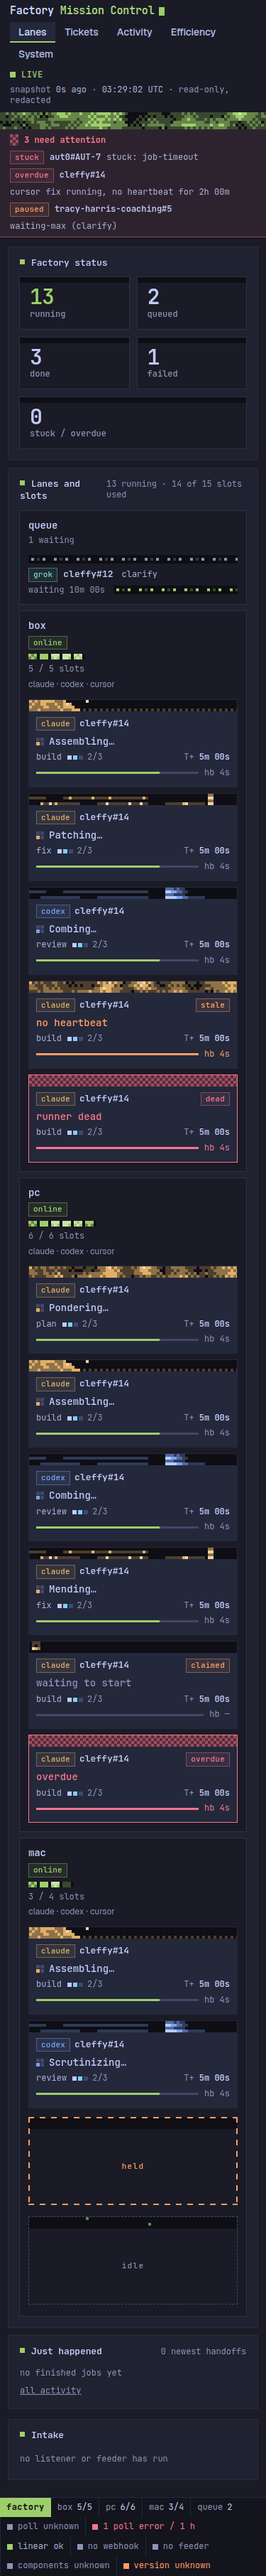
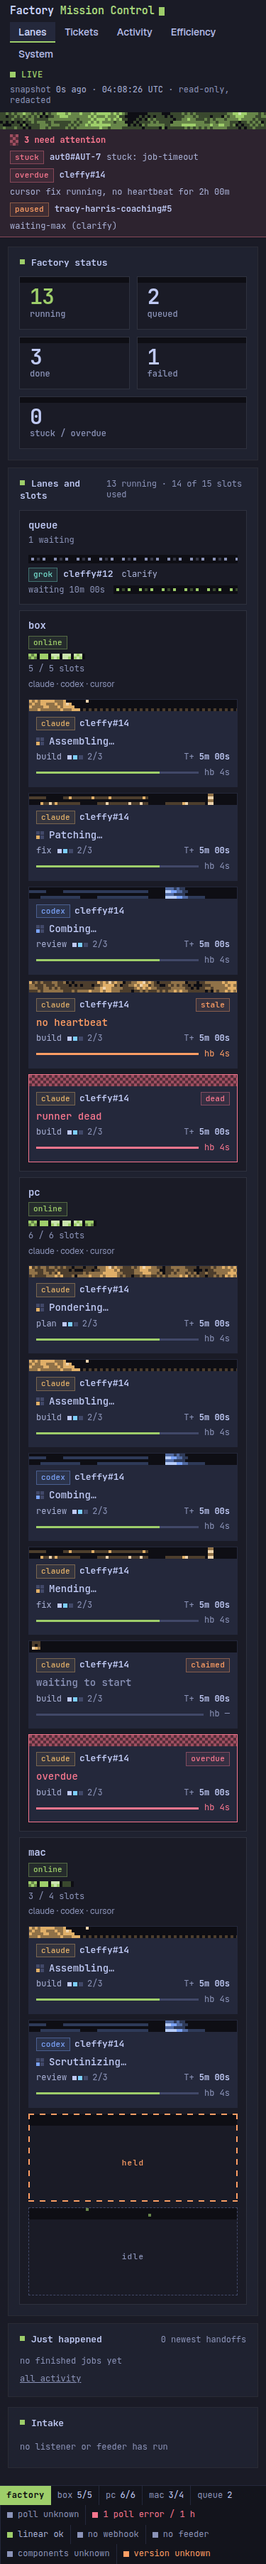
#140: fix(dashboard): keep all 15 slots clear of the status line at 1440x900
Tiles hold the artboard's 124px. Line 3 no longer wraps: the round's
"2/3" text folds away first, then the pips, so the action and the T+
time stay whole. Idle and held tiles drop the shared .empty margin that
made their lane 8px taller.

The fold test now checks every tile against the status-line top,
hit-tests each tile's bottom line, and fails if line 3 cuts the action
or time. The 1440 review screenshot is captured at 1440x900.

diff --git a/tests/test_dashboard_pages_golden.py b/tests/test_dashboard_pages_golden.py
@@ -25,25 +25,25 @@ from tests.test_dashboard import NOW, make_db, seeded
 FACADE = Path(__file__).resolve().parent.parent / "lib" / "dashboard_page.py"
 
 GOLDEN = {
[35 lines of base64/hex data omitted]
 }
 
 NAMES = (

diff --git a/tests/test_dashboard_lanes.py b/tests/test_dashboard_lanes.py
@@ -405,9 +405,11 @@ class Browser:
           if (link && / live/.test(' ' + link.className)) document.fonts.ready.then(function () { done(true); });
           else setTimeout(wait, 50); })(); })""")
 
-    def screenshot(self, path: Path, width: int) -> None:
-        height = self.eval("document.documentElement.scrollHeight")
-        self.call("Emulation.setDeviceMetricsOverride", width=width, height=height, deviceScaleFactor=1, mobile=False)
+    def screenshot(self, path: Path, width: int, full_page: bool = True) -> None:
+        if full_page:
+            height = self.eval("document.documentElement.scrollHeight")
+            self.call("Emulation.setDeviceMetricsOverride", width=width, height=height, deviceScaleFactor=1, mobile=False)
+        self.eval("new Promise(function (done) { requestAnimationFrame(function () { requestAnimationFrame(done); }); })")
         path.write_bytes(base64.b64decode(self.call("Page.captureScreenshot", format="png")["data"]))
 
     def close(self) -> None:
@@ -436,8 +438,20 @@ def test_fifteen_slots_fit_above_the_fold_at_1440x900(tmp_path: Path, browser: B
     for row in rows:
         assert len({top for top, _ in row["tiles"]}) <= 2, f"{row['device']} wraps onto a second row"
     assert browser.eval("innerHeight") == FOLD
-    bottom = max(b for row in rows for _, b in row["tiles"])
-    assert bottom <= FOLD, f"the last slot ends at {bottom}px, below the {FOLD}px fold"
+    visible = browser.eval("""(function () {
+      var floor = document.getElementById('statusline').getBoundingClientRect().top;
+      return [].map.call(document.querySelectorAll('#lanes .tile'), function (tile) {
+        var b = tile.getBoundingClientRect(), x = b.left + b.width / 2, y = b.bottom - 4;
+        var hit = document.elementFromPoint(x, y);
+        return {device: tile.closest('[data-device]').getAttribute('data-device'), bottom: b.bottom, floor: floor,
+                own: !!hit && tile.contains(hit)};
+      });
+    })()""")
+    hidden = [t for t in visible if t["bottom"] > t["floor"] or not t["own"]]
+    assert not hidden, f"slots under the status line or off screen at 1440x{FOLD}: {hidden}"
+    clipped = browser.eval("""[].filter.call(document.querySelectorAll('#lanes .tile-l3 .action, #lanes .tile-l3 .t'),
+      function (e) { return e.scrollWidth > e.clientWidth; }).map(function (e) { return e.textContent; })""")
+    assert not clipped, f"line 3 cuts the job's action or elapsed time: {clipped}"
 
 
 @needs_chrome
@@ -462,7 +476,7 @@ def write_screenshots(out: Path) -> list[Path]:
         for name, width in zip(SHOTS, (1440, 375)):
             chrome.open(html, width)
             paths.append(out.resolve() / name)
-            chrome.screenshot(paths[-1], width)
+            chrome.screenshot(paths[-1], width, full_page=width < 1440)
         return paths
     finally:
         chrome.close()

diff --git a/lib/dashboard_pages/lanes.py b/lib/dashboard_pages/lanes.py
@@ -58,20 +58,20 @@ a.tile:hover,a.tile:focus-visible{border-color:var(--brand)}
 .verb{display:flex;white-space:pre;font:500 14px/1.25 var(--mono);color:var(--muted)}
 .verb.live{color:var(--text)}.verb.warn{color:var(--warn)}.verb.bad{color:var(--bad)}
 .verb .h{color:#ffffff}.verb .n{color:var(--bt,var(--ok))}
-.tile-l3{display:flex;flex-wrap:wrap;align-items:center;gap:2px 8px;color:var(--muted)}
-.tile-l3 .action{color:var(--text-2)}
-.round{display:flex;align-items:center;gap:6px}
-.pips{display:flex;gap:2px}
+.tile-l3{display:flex;align-items:center;gap:8px;color:var(--muted)}
+.tile-l3 .action{min-width:0;overflow:hidden;text-overflow:ellipsis;white-space:nowrap;color:var(--text-2)}
+.round{flex:0 1000 auto;min-width:0;height:1.3em;overflow:hidden;display:flex;flex-wrap:wrap;align-content:flex-start;align-items:center;gap:0 6px}
+.pips{display:flex;align-items:center;height:1.3em;gap:2px}
 .pips i{width:6px;height:6px;background:var(--line-hi)}.pips i.done{background:var(--text)}.pips i.cur{background:var(--accent)}
 .tile-l3 .gap{flex:1 1 0}
-.tile-l3 .t{white-space:nowrap}.tile-l3 .t b{font-weight:600;color:var(--text)}
+.tile-l3 .t{flex:none;white-space:nowrap}.tile-l3 .t b{font-weight:600;color:var(--text)}
 .tile-l4{display:flex;align-items:center;gap:8px}
 .hbar{flex:1 1 0;height:3px;background:var(--line-hi)}
 .hbar i{display:block;height:3px;background:var(--ok)}
 .hbar.warn i{background:var(--warn)}.hbar.bad i{background:var(--bad)}
 .tile-l4 .hbt{white-space:nowrap;color:var(--muted)}
 .tile-l4 .hbt.warn{color:var(--warn)}.tile-l4 .hbt.bad{color:var(--bad)}
-.tile.empty{position:relative;display:flex;flex-direction:column;background:transparent;border:1px dashed var(--line-hi)}
+.tile.empty{position:relative;display:flex;margin:0;flex-direction:column;background:transparent;border:1px dashed var(--line-hi)}
 .tile.empty.px-held{border-color:transparent}
 .tile.empty .lbl{flex:1 0 auto;display:flex;align-items:center;justify-content:center;
 font:500 11px/1 var(--mono);letter-spacing:.12em;color:var(--muted)}
